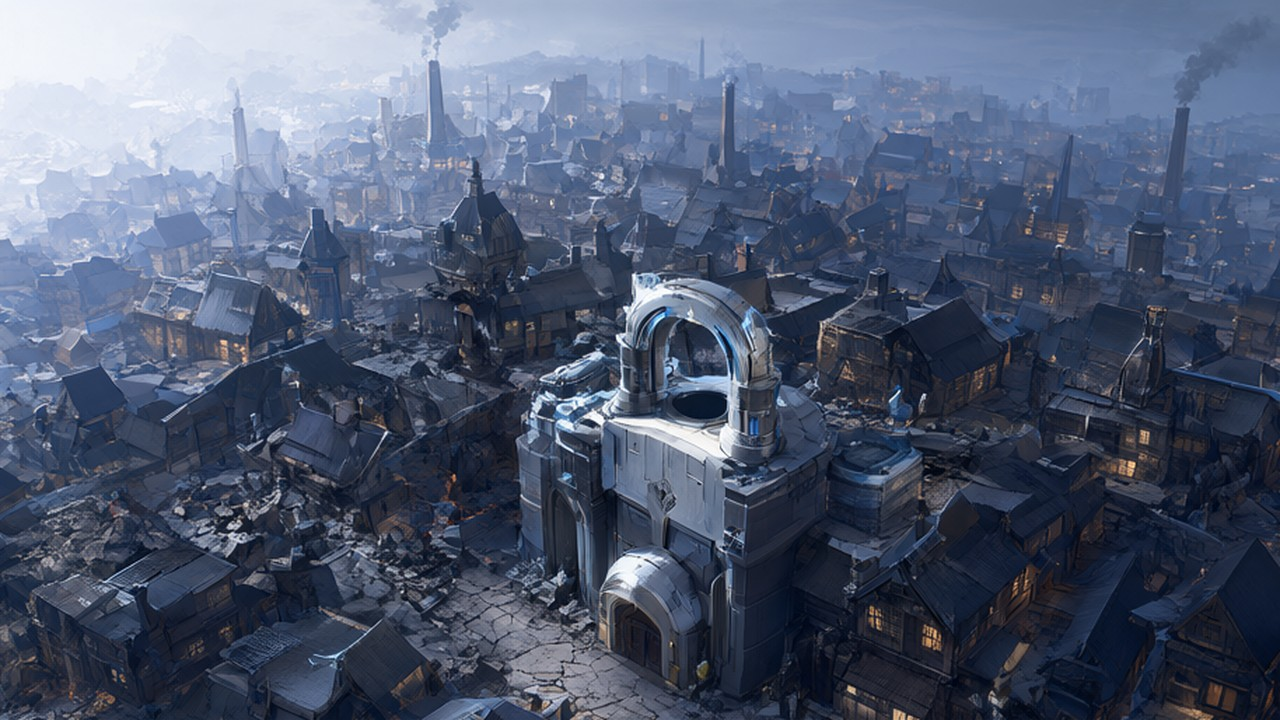
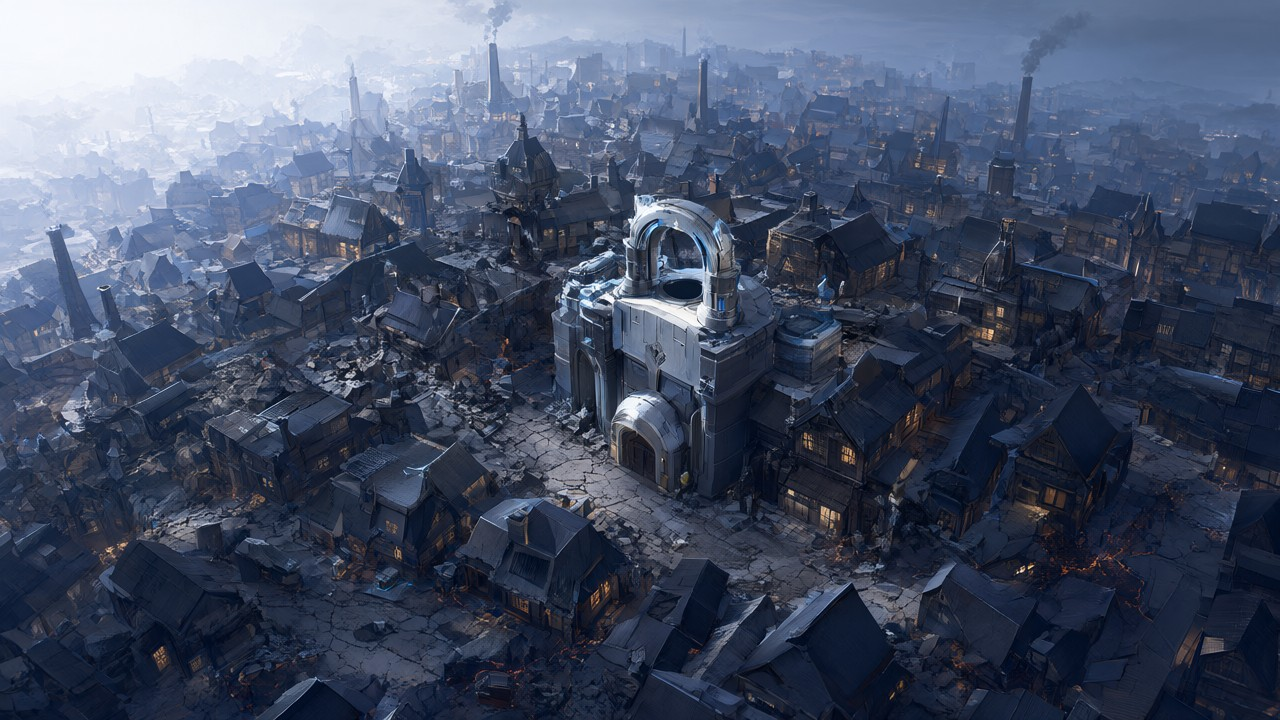
v8.7 atlas art: +9 city vignettes through style-lock gate (32/40 pass, 8 saturation rejects); ui_band floor rule limited to thin footers so the prompt's soft shadowed lower third isn't mistaken for a caption bar

diff --git a/tools/art/ingest_atlas_v87.py b/tools/art/ingest_atlas_v87.py
@@ -78,7 +78,10 @@ def ui_band(path):
     y0 = h
     while y0 > int(h * 0.5) and rowstd[y0 - 1] < 0.09:
         y0 -= 1
-    if h - y0 >= int(h * 0.05) and rowstd[h - 3:].mean() < 0.06:
+    # Only a thin footer (<=15% of the height) counts. The v87 city prompt deliberately asks for a tall, soft,
+    # shadowed lower third (text-safe area for the city panel), which is also low-variance but is composition,
+    # not a caption bar; treating it as a bar rejected or over-cropped good plates.
+    if int(h * 0.05) <= h - y0 <= int(h * 0.15) and rowstd[h - 3:].mean() < 0.06:
         best = min(best, y0 / h) if best is not None else y0 / h
     # hairline: one crisp full-width rule with quiet rows beneath it
     fr2 = (dy > 0.04).mean(axis=1)
